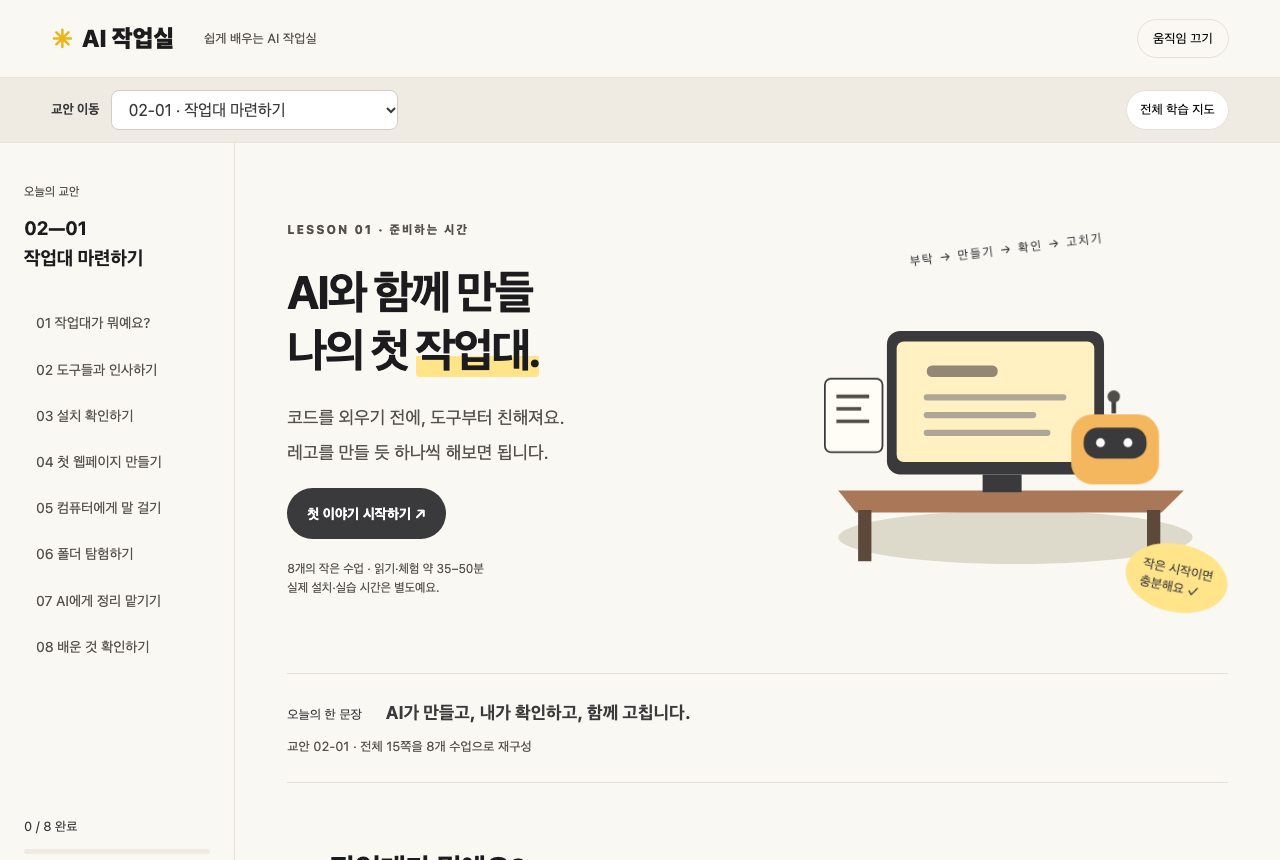
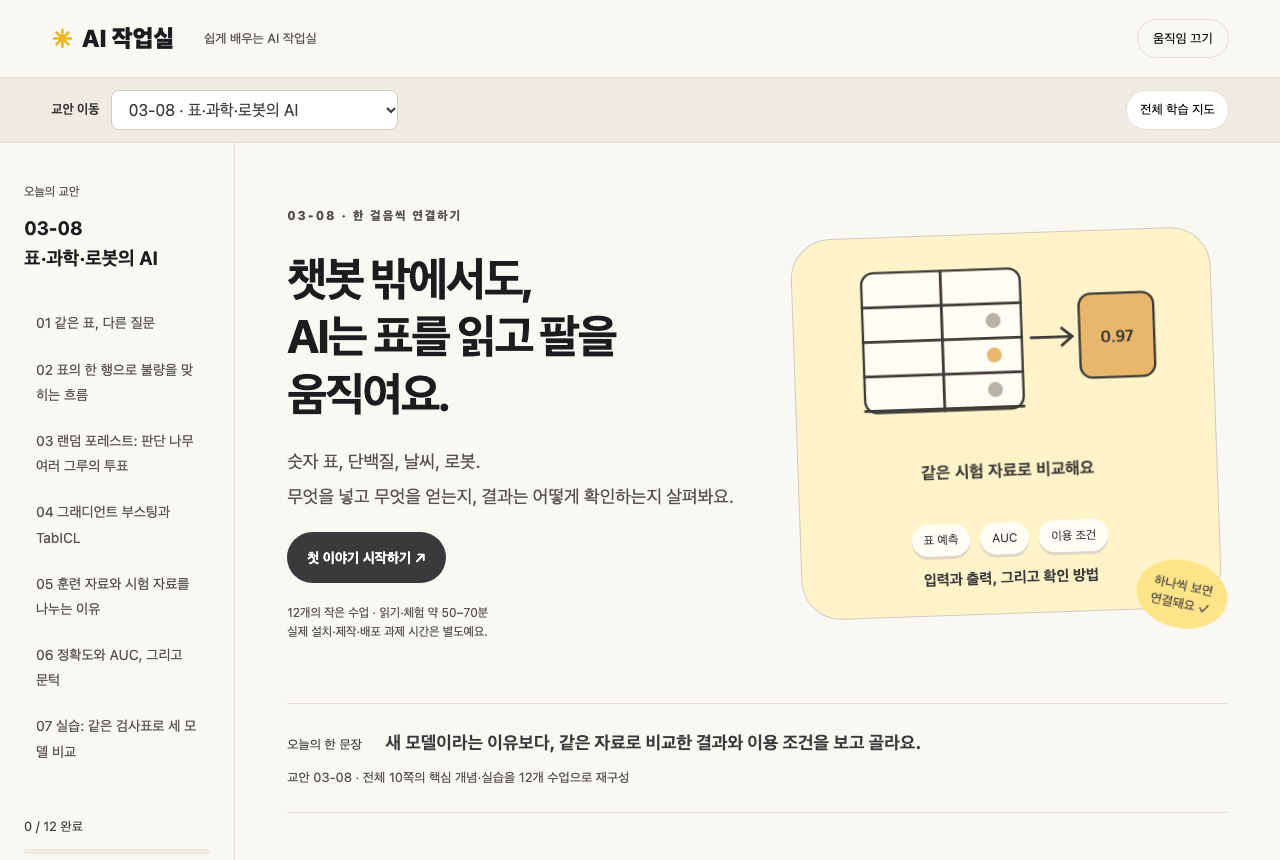
AI Lab: 학습 사이트 캡처를 03-08 교안 화면으로 교체

diff --git a/_posts/2026-11-14-ai-easy-study.md b/_posts/2026-11-14-ai-easy-study.md
@@ -38,8 +38,8 @@ AI 개발을 처음 배우는 나 자신을 위해 만들었다.
 Claude Code와 Claude Artifact를 활용해 개인 학습 사이트 **‘AI 개발 쉽게 공부하기’**를 만들었다.
 
 <figure class="shot">
-  <img src="/assets/images/ai-easy-study/01-structure.png" alt="AI 작업실 학습 사이트의 첫 화면. 상단에 교안 이동 메뉴와 전체 학습 지도 버튼, 왼쪽에 교안 목차가 보인다" loading="lazy">
-  <figcaption>학습 사이트 전체 구조. 상단 교안 이동 메뉴로 전체 교안을 고르고, 왼쪽 목차에서 수업 순서를 확인한다. 교안 본문은 일부러 싣지 않았다.</figcaption>
+  <img src="/assets/images/ai-easy-study/01-structure.png" alt="03-08 교안 화면. 상단에 교안 이동 메뉴와 전체 학습 지도 버튼, 왼쪽에 교안 목차가 보인다" loading="lazy">
+  <figcaption>학습 사이트 전체 구조. 03-08 교안을 예로 든 화면이다. 상단 교안 이동 메뉴로 전체 교안을 고르고, 왼쪽 목차에서 수업 순서를 확인한다. 교안 본문은 일부러 싣지 않았다.</figcaption>
 </figure>
 
 원래 교안의 핵심 개념을 유지하면서 내용을 쉬운 말로 다시 구성했다.
